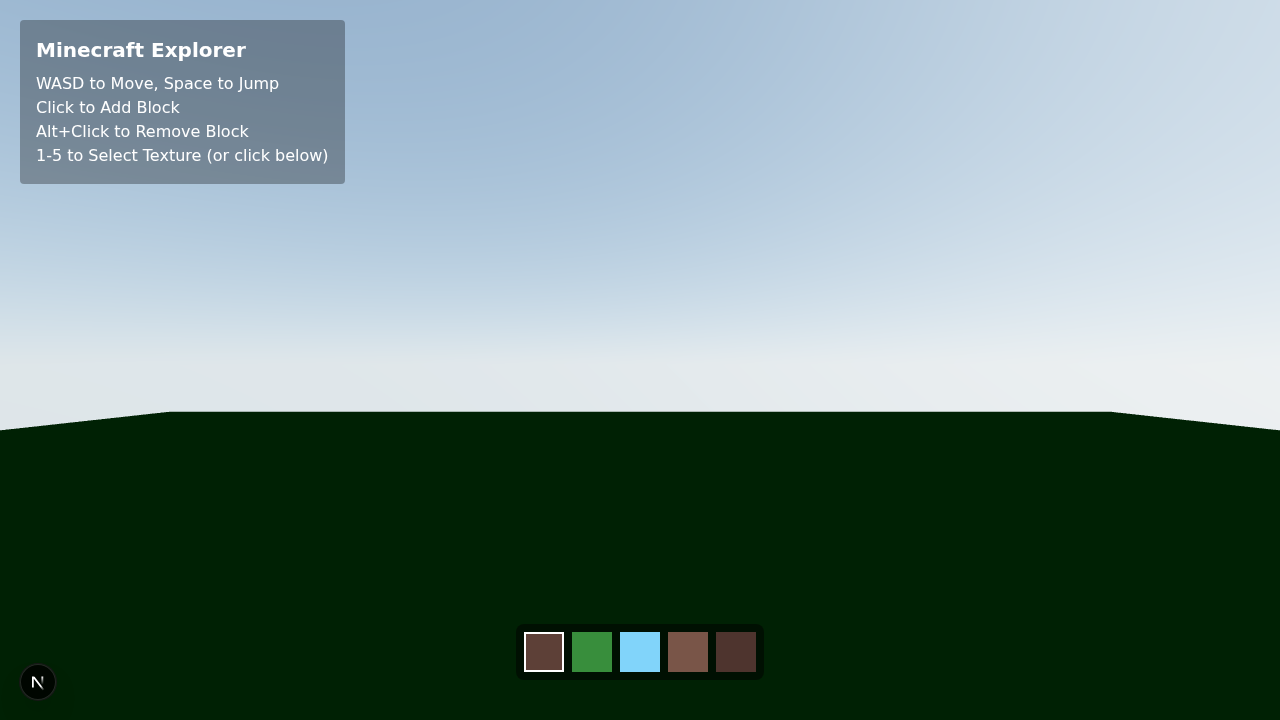
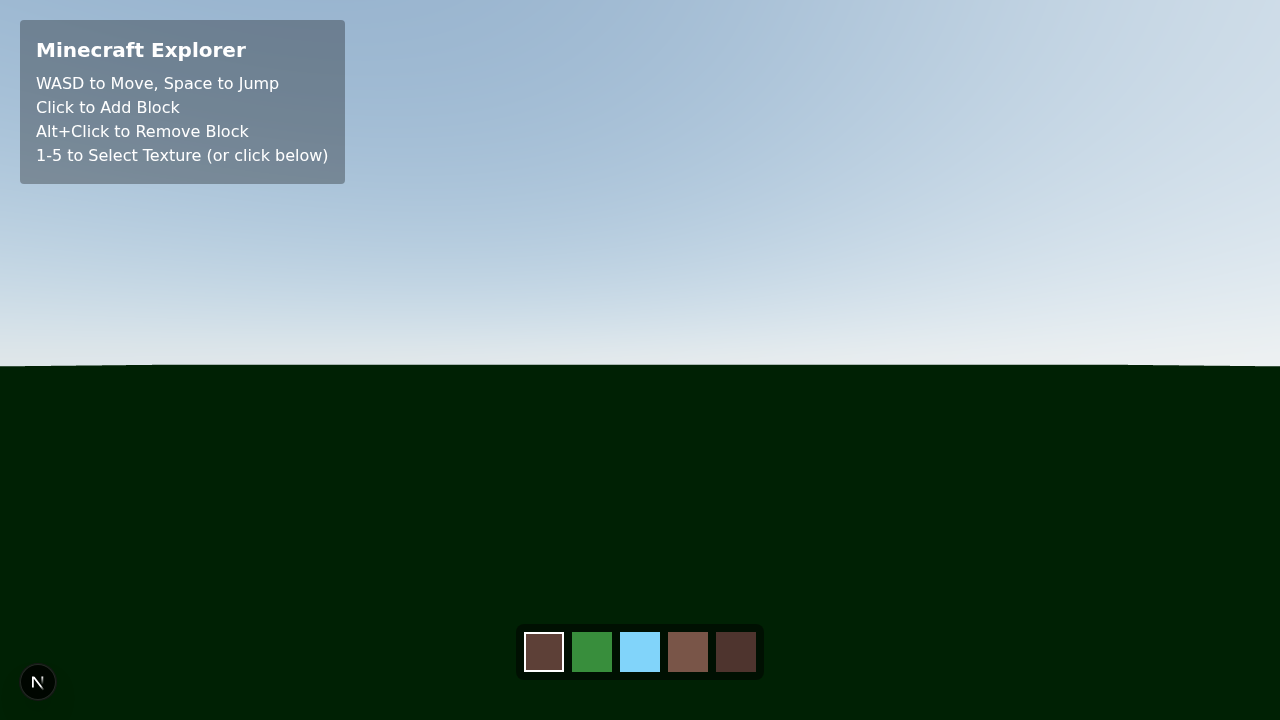
fix(game): migrate physics to rapier to fix movement

Changed region(s): [[0.0, 0.4889, 1.0, 0.6111]]

diff --git a/website/components/game/Player.tsx b/website/components/game/Player.tsx
@@ -1,20 +1,18 @@
 'use client';
 
-import { useSphere } from '@react-three/cannon';
+import { RigidBody, RapierRigidBody } from '@react-three/rapier';
 import { useThree, useFrame } from '@react-three/fiber';
 import { useEffect, useRef } from 'react';
-import { Vector3, Mesh } from 'three';
+import { Vector3 } from 'three';
 import { PointerLockControls } from '@react-three/drei';
 
 const SPEED = 5;
 
 export const Player = () => {
   const { camera } = useThree();
-  const [ref, api] = useSphere<Mesh>(() => ({ mass: 1, type: 'Dynamic', position: [0, 5, 0] }));
+  const rigidBody = useRef<RapierRigidBody>(null);
 
   const movement = useRef({ forward: false, backward: false, left: false, right: false });
-  const velocity = useRef([0, 0, 0]);
-  useEffect(() => api.velocity.subscribe((v) => (velocity.current = v)), [api.velocity]);
 
   useEffect(() => {
       const handleKeyDown = (e: KeyboardEvent) => {
@@ -24,8 +22,11 @@ export const Player = () => {
               case 'KeyA': movement.current.left = true; break;
               case 'KeyD': movement.current.right = true; break;
               case 'Space':
-                if (Math.abs(velocity.current[1]) < 0.05) {
-                    api.velocity.set(velocity.current[0], 4, velocity.current[2]);
+                if (rigidBody.current) {
+                    const vel = rigidBody.current.linvel();
+                    if (Math.abs(vel.y) < 0.1) {
+                        rigidBody.current.setLinvel({ x: vel.x, y: 5, z: vel.z }, true);
+                    }
                 }
                 break;
           }
@@ -44,12 +45,18 @@ export const Player = () => {
           document.removeEventListener('keydown', handleKeyDown);
           document.removeEventListener('keyup', handleKeyUp);
       }
-  }, [api.velocity]);
+  }, []);
 
   useFrame(() => {
-      if (!ref.current) return;
+      if (!rigidBody.current) return;
 
-      camera.position.copy(ref.current.position);
+      const pos = rigidBody.current.translation();
+      camera.position.set(pos.x, pos.y, pos.z);
+
+      // Expose position for testing
+      if (typeof window !== 'undefined') {
+        (window as any).__PLAYER_POSITION__ = [pos.x, pos.y, pos.z];
+      }
 
       const direction = new Vector3();
       const frontVector = new Vector3(0, 0, Number(movement.current.backward) - Number(movement.current.forward));
@@ -61,12 +68,26 @@ export const Player = () => {
         .multiplyScalar(SPEED)
         .applyEuler(camera.rotation);
 
-      api.velocity.set(direction.x, velocity.current[1], direction.z);
+      const vel = rigidBody.current.linvel();
+      rigidBody.current.setLinvel({ x: direction.x, y: vel.y, z: direction.z }, true);
   });
 
   return (
     <>
-      <mesh ref={ref} />
+      <RigidBody
+        ref={rigidBody}
+        colliders="ball"
+        mass={1}
+        type="dynamic"
+        position={[0, 5, 0]}
+        enabledRotations={[false, false, false]}
+        canSleep={false}
+      >
+        <mesh>
+            <sphereGeometry args={[0.5]} />
+            <meshStandardMaterial color="hotpink" visible={false} />
+        </mesh>
+      </RigidBody>
       <PointerLockControls />
     </>
   );

diff --git a/website/components/game/Cube.tsx b/website/components/game/Cube.tsx
@@ -1,7 +1,6 @@
 'use client';
 
-import { useBox } from '@react-three/cannon';
-import { Mesh } from 'three';
+import { RigidBody } from '@react-three/rapier';
 import { useStore, CubeType } from '../../lib/store';
 import { useState } from 'react';
 
@@ -14,38 +13,36 @@ const colors: Record<CubeType, string> = {
 };
 
 export const Cube = ({ position, texture }: { position: [number, number, number]; texture: CubeType }) => {
-  const [ref] = useBox<Mesh>(() => ({ type: 'Static', position }));
   const addCube = useStore((state) => state.addCube);
   const removeCube = useStore((state) => state.removeCube);
   const [hover, setHover] = useState(false);
 
   return (
-    <mesh
-      ref={ref}
-      onPointerMove={(e) => {
-        e.stopPropagation();
-        setHover(true);
-      }}
-      onPointerOut={() => setHover(false)}
-      onClick={(e) => {
-        e.stopPropagation();
-        if (e.altKey) {
-            removeCube(position[0], position[1], position[2]);
-            return;
-        }
-
-        if (!e.face) return;
-
-        const { x, y, z } = e.face.normal;
-        addCube(position[0] + x, position[1] + y, position[2] + z);
-      }}
-    >
-      <boxGeometry />
-      <meshStandardMaterial
-        color={hover ? 'lightgrey' : colors[texture]}
-        opacity={texture === 'glass' ? 0.6 : 1}
-        transparent={texture === 'glass'}
-      />
-    </mesh>
+    <RigidBody type="fixed" position={position}>
+      <mesh
+        onPointerMove={(e) => {
+            e.stopPropagation();
+            setHover(true);
+        }}
+        onPointerOut={() => setHover(false)}
+        onClick={(e) => {
+            e.stopPropagation();
+            if (e.altKey) {
+                removeCube(position[0], position[1], position[2]);
+                return;
+            }
+            if (!e.face) return;
+            const { x, y, z } = e.face.normal;
+            addCube(position[0] + x, position[1] + y, position[2] + z);
+        }}
+      >
+        <boxGeometry />
+        <meshStandardMaterial
+          color={hover ? 'lightgrey' : colors[texture]}
+          opacity={texture === 'glass' ? 0.6 : 1}
+          transparent={texture === 'glass'}
+        />
+      </mesh>
+    </RigidBody>
   );
 };

diff --git a/website/tests/movement.spec.ts b/website/tests/movement.spec.ts
@@ -1,0 +1,56 @@
+import { test, expect } from '@playwright/test';
+import path from 'path';
+
+test('Player movement verification', async ({ page }) => {
+  // Navigate to game
+  await page.goto('/test-repo/game');
+
+  // Wait for canvas
+  await expect(page.locator('canvas')).toBeVisible({ timeout: 20000 });
+
+  // Wait for scene to load and physics to settle
+  await page.waitForTimeout(5000);
+
+  // Get initial position
+  const initialPos = await page.evaluate(() => {
+    return (window as any).__PLAYER_POSITION__;
+  });
+
+  console.log('Initial Position:', initialPos);
+  expect(initialPos).toBeTruthy();
+  expect(initialPos.length).toBe(3);
+
+  // Press W to move forward
+  await page.keyboard.down('KeyW');
+  await page.waitForTimeout(500); // Walk for 500ms
+  await page.keyboard.up('KeyW');
+
+  // Wait a bit for update
+  await page.waitForTimeout(100);
+
+  // Get new position
+  const newPos = await page.evaluate(() => {
+    return (window as any).__PLAYER_POSITION__;
+  });
+
+  console.log('New Position:', newPos);
+
+  // Take screenshot
+  const screenshotPath = path.resolve(__dirname, '../../docs/screenshots/movement_verification.png');
+  await page.screenshot({ path: screenshotPath });
+
+  // Assert movement happened
+  // Initial Z should be around 0.
+  // Moving forward (pressing W) with default camera (looking at 0,0,0 from 0,5,0?)
+  // Wait, Player spawns at 0,5,0. Camera copies player position.
+  // Rotation is controlled by mouse. Initial rotation is 0,0,0 (looking down -Z axis).
+  // W moves forward (0,0,-1).
+  // So Z should decrease (become negative).
+
+  const zDiff = newPos[2] - initialPos[2];
+  console.log('Z Difference:', zDiff);
+
+  // Expect Z to decrease (negative difference)
+  // SPEED is 5. 0.5s duration. Distance approx 2.5 units.
+  expect(zDiff).toBeLessThan(-0.5); // Allow some margin
+});

diff --git a/website/components/game/Ground.tsx b/website/components/game/Ground.tsx
@@ -1,27 +1,25 @@
 'use client';
 
-import { usePlane } from '@react-three/cannon';
-import { Mesh } from 'three';
+import { RigidBody } from '@react-three/rapier';
 import { useStore } from '../../lib/store';
 
 export const Ground = () => {
-  const [ref] = usePlane<Mesh>(() => ({ rotation: [-Math.PI / 2, 0, 0], position: [0, -0.5, 0] }));
   const addCube = useStore((state) => state.addCube);
 
   return (
-    <mesh
-      ref={ref}
-      onClick={(e) => {
-        e.stopPropagation();
-        if (e.altKey) return;
-
-        const x = Math.round(e.point.x);
-        const z = Math.round(e.point.z);
-        addCube(x, 0, z);
-      }}
-    >
-      <planeGeometry args={[100, 100]} />
-      <meshStandardMaterial color="#2e7d32" />
-    </mesh>
+    <RigidBody type="fixed" rotation={[-Math.PI / 2, 0, 0]} position={[0, -0.5, 0]}>
+      <mesh
+        onClick={(e) => {
+          e.stopPropagation();
+          if (e.altKey) return;
+          const x = Math.round(e.point.x);
+          const z = Math.round(e.point.z);
+          addCube(x, 0, z);
+        }}
+      >
+        <planeGeometry args={[100, 100]} />
+        <meshStandardMaterial color="#2e7d32" />
+      </mesh>
+    </RigidBody>
   );
 };

diff --git a/website/components/game/Scene.tsx b/website/components/game/Scene.tsx
@@ -2,7 +2,7 @@
 
 import { Canvas } from '@react-three/fiber';
 import { Sky } from '@react-three/drei';
-import { Physics } from '@react-three/cannon';
+import { Physics } from '@react-three/rapier';
 import { Player } from './Player';
 import { Ground } from './Ground';
 import { Cube } from './Cube';
@@ -18,7 +18,7 @@ export const Scene = () => {
         <Sky sunPosition={[100, 100, 20]} />
         <ambientLight intensity={0.5} />
         <pointLight position={[10, 10, 10]} />
-        <Physics>
+        <Physics gravity={[0, -9.81, 0]}>
           <Player />
           <Ground />
           {cubes.map((cube) => (

diff --git a/website/next.config.ts b/website/next.config.ts
@@ -7,6 +7,7 @@ const nextConfig: NextConfig = {
   images: {
     unoptimized: true,
   },
+  reactStrictMode: false,
 };
 
 export default nextConfig;

diff --git a/AGENTS.md b/AGENTS.md
@@ -23,6 +23,7 @@
 5.  **Testing**:
     - All new features must include unit tests and Playwright tests (if applicable).
     - Ensure everything can be tested by AI systems.
+    - **Visual Verification**: For any new feature or fix involving visual elements or gameplay, JULES must check if it works by creating a Playwright test that captures a screenshot of the verified state.
 
 6.  **Deployment & CI**:
     - The game must work as a static website hosted on GitHub Pages.
